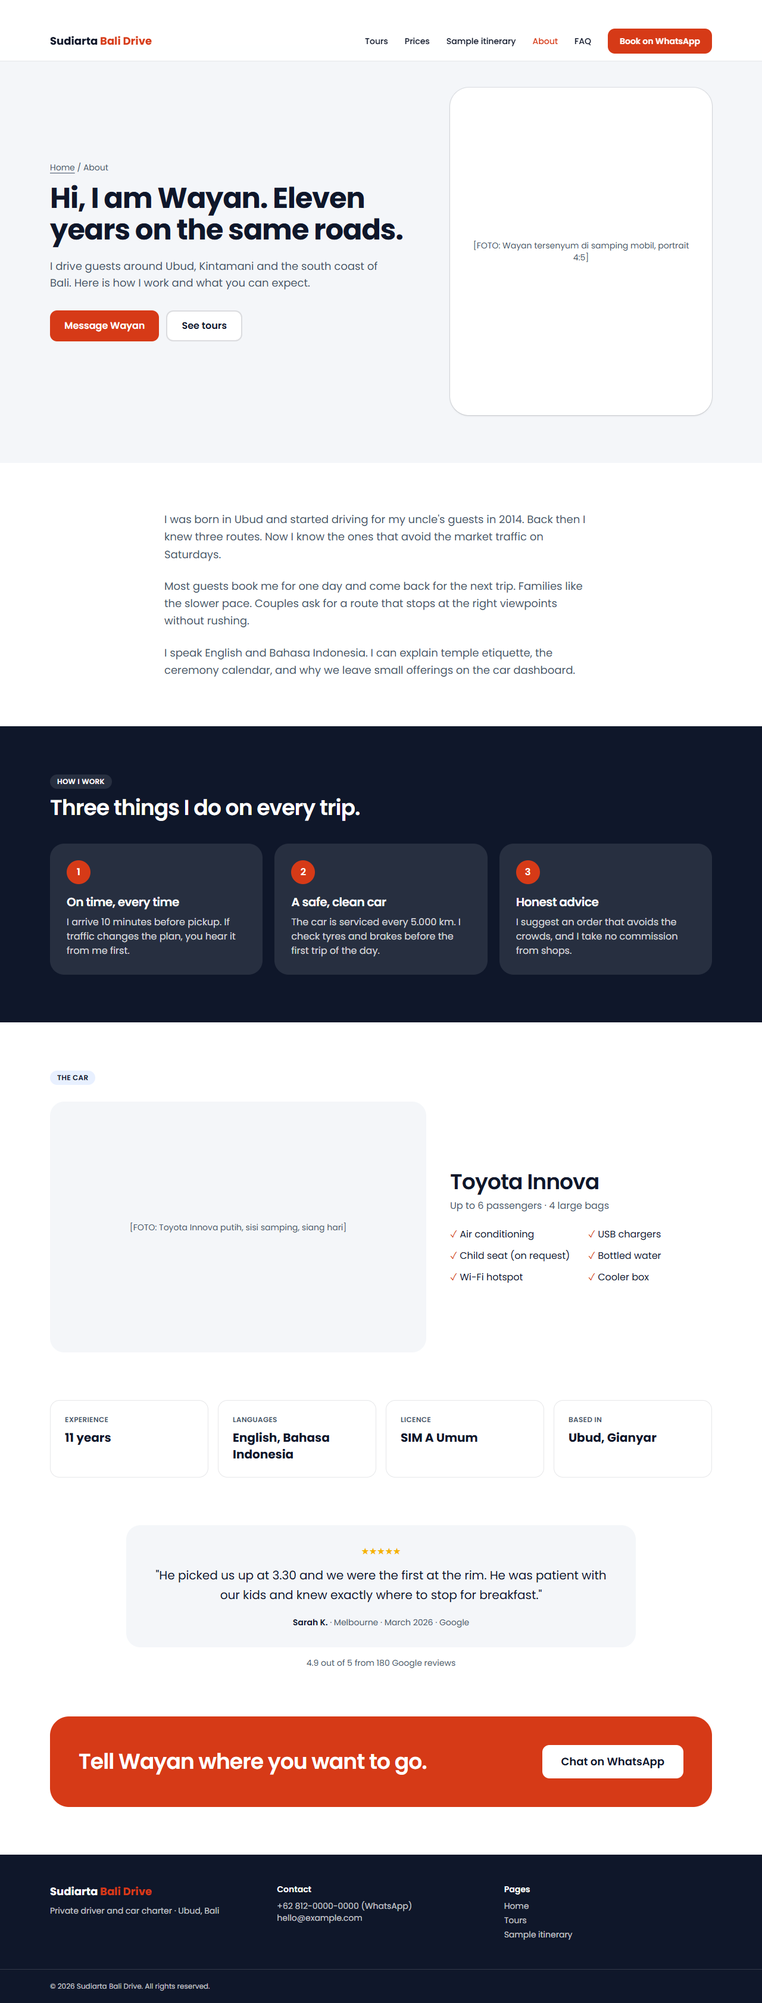
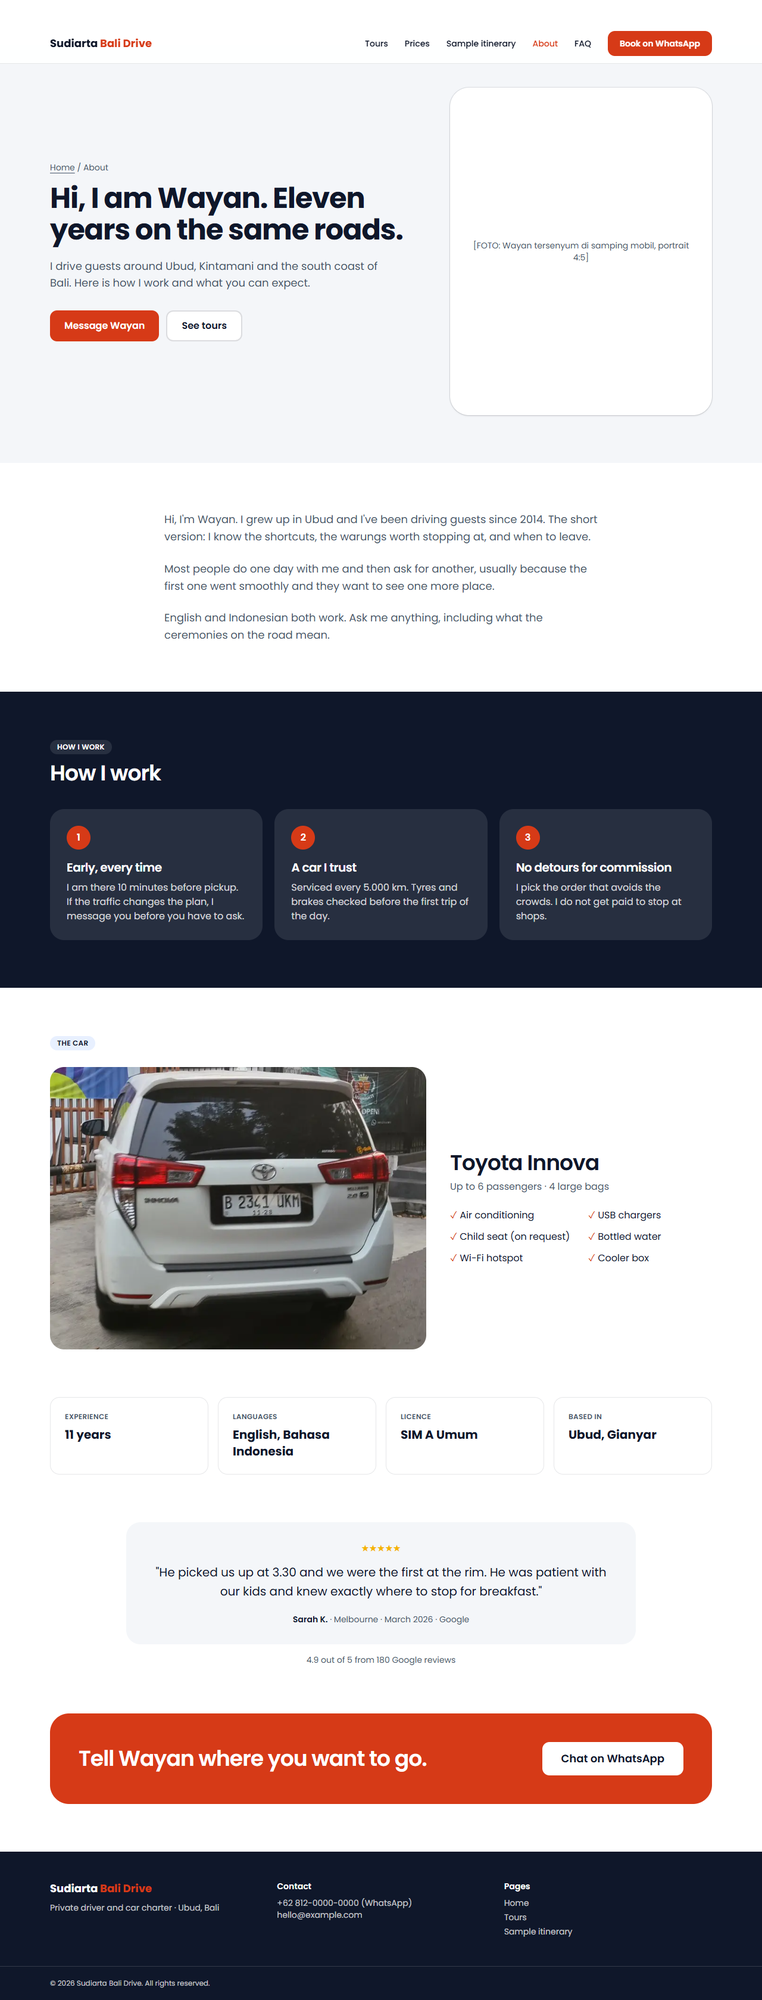
Distinct About copy per template and real car photo
- Each template now has its own About text (story and values), so the
  four About pages no longer repeat the same paragraphs
- Copy lives in shared/about-copy.json; Segara and Endek pages are
  generated from it, Sawah and Batu About pages were updated in place
- Car placeholder replaced by a CC0 photo of a white Toyota Innova
  (Wikimedia Commons), shared/photos/car-innova*.webp
- Driver portrait is still a placeholder: no approved photo yet
- scripts/find-car-photo.mjs to search for licensed car photos

diff --git a/templates/segara/about.html b/templates/segara/about.html
@@ -105,13 +105,13 @@
 <section data-component="page-hero" class="bg-haze"><div class="mx-auto max-w-5xl px-5 py-16 md:py-24 text-center"><p class="text-sm text-slate"><a href="index.html" class="underline underline-offset-4">Home</a> / About</p><h1 class="mt-4 font-display text-4xl font-semibold sm:text-5xl">Hi, I am Wayan. Eleven years on the same roads.</h1><p class="mt-5 max-w-2xl text-lg text-slate mx-auto">I drive guests around Ubud, Kintamani and the south coast of Bali. Here is how I work and what you can expect.</p><div class="mt-8 flex flex-col gap-3 sm:flex-row justify-center"><a href="https://wa.me/6281200000000?text=Hello%20Wayan" class="btn-primary">Message Wayan</a><a href="activities.html" class="btn-outline">See tours</a></div></div></section>
 <!-- /component:page-hero -->
 <!-- component:driver-story -->
-<section data-component="driver-story" class="mx-auto grid max-w-6xl gap-12 px-5 py-20 md:grid-cols-12 md:items-center"><div class="md:col-span-5"><div class="photo-slot aspect-[4/5] rounded-3xl p-6" data-field="driver.photo_about">[FOTO: Wayan tersenyum di samping mobil, portrait 4:5]</div></div><div class="space-y-6 text-lg leading-relaxed md:col-span-7"><p data-field="driver.story.0">I was born in Ubud and started driving for my uncle's guests in 2014. Back then I knew three routes. Now I know the ones that avoid the market traffic on Saturdays.</p><p data-field="driver.story.1">Most guests book me for one day and come back for the next trip. Families like the slower pace. Couples ask for a route that stops at the right viewpoints without rushing.</p><p data-field="driver.story.2">I speak English and Bahasa Indonesia. I can explain temple etiquette, the ceremony calendar, and why we leave small offerings on the car dashboard.</p></div></section>
+<section data-component="driver-story" class="mx-auto grid max-w-6xl gap-12 px-5 py-20 md:grid-cols-12 md:items-center"><div class="md:col-span-5"><div class="photo-slot aspect-[4/5] rounded-3xl p-6" data-field="driver.photo_about">[FOTO: Wayan tersenyum di samping mobil, portrait 4:5]</div></div><div class="space-y-6 text-lg leading-relaxed md:col-span-7"><p data-field="driver.story.0">I was raised in Ubud and have been driving visitors around this island since 2014. Every trip starts with a conversation: what you love, how tired you are, how much time you have.</p><p data-field="driver.story.1">Families tell me the best part is the slow pace. Couples tell me it is the quiet viewpoints. I just try to make the day feel like yours.</p><p data-field="driver.story.2">I speak English and Bahasa Indonesia. Along the way I will explain what the offerings on the dashboard are for, and why we take our time at temples.</p></div></section>
 <!-- /component:driver-story -->
 <!-- component:values -->
-<section data-component="values" class="bg-teal-deep text-snow"><div class="mx-auto max-w-6xl px-5 py-20"><p class="eyebrow !text-sun">How I work</p><h2 class="max-w-2xl font-display text-3xl font-semibold sm:text-4xl">Three things I do on every trip.</h2><ol class="mt-10 grid gap-5 md:grid-cols-3" data-repeat="values"><li class="rounded-3xl bg-snow/10 p-7"><span class="font-display text-5xl font-semibold text-sun">1</span><h3 class="mt-3 font-display text-2xl font-semibold">On time, every time</h3><p class="mt-2 opacity-85">I arrive 10 minutes before pickup. If traffic changes the plan, you hear it from me first.</p></li><li class="rounded-3xl bg-snow/10 p-7"><span class="font-display text-5xl font-semibold text-sun">2</span><h3 class="mt-3 font-display text-2xl font-semibold">A safe, clean car</h3><p class="mt-2 opacity-85">The car is serviced every 5.000 km. I check tyres and brakes before the first trip of the day.</p></li><li class="rounded-3xl bg-snow/10 p-7"><span class="font-display text-5xl font-semibold text-sun">3</span><h3 class="mt-3 font-display text-2xl font-semibold">Honest advice</h3><p class="mt-2 opacity-85">I suggest an order that avoids the crowds, and I take no commission from shops.</p></li></ol></div></section>
+<section data-component="values" class="bg-teal-deep text-snow"><div class="mx-auto max-w-6xl px-5 py-20"><p class="eyebrow !text-sun">How I work</p><h2 class="max-w-2xl font-display text-3xl font-semibold sm:text-4xl">What you can count on from me.</h2><ol class="mt-10 grid gap-5 md:grid-cols-3" data-repeat="values"><li class="rounded-3xl bg-snow/10 p-7"><span class="font-display text-5xl font-semibold text-sun">1</span><h3 class="mt-3 font-display text-2xl font-semibold">I am early</h3><p class="mt-2 opacity-85">Ten minutes before pickup, every time. If the road changes the plan, you hear it from me first.</p></li><li class="rounded-3xl bg-snow/10 p-7"><span class="font-display text-5xl font-semibold text-sun">2</span><h3 class="mt-3 font-display text-2xl font-semibold">The car is clean and safe</h3><p class="mt-2 opacity-85">Serviced every 5.000 km, with tyres and brakes checked before the first trip of the day.</p></li><li class="rounded-3xl bg-snow/10 p-7"><span class="font-display text-5xl font-semibold text-sun">3</span><h3 class="mt-3 font-display text-2xl font-semibold">I tell you the truth</h3><p class="mt-2 opacity-85">I suggest the order that avoids the crowds, and I take no commission from shops or restaurants.</p></li></ol></div></section>
 <!-- /component:values -->
 <!-- component:fleet -->
-<section data-component="fleet" class="mx-auto max-w-6xl px-5 py-20"><p class="eyebrow">The car</p><div class="mt-4 grid gap-10 md:grid-cols-12 md:items-center"><div class="md:col-span-7"><div class="photo-slot aspect-[3/2] rounded-3xl p-6" data-field="fleet.0.photo">[FOTO: Toyota Innova putih, sisi samping, siang hari]</div></div><div class="md:col-span-5"><h2 class="font-display text-3xl font-semibold sm:text-4xl" data-field="fleet.0.name">Toyota Innova</h2><p class="mt-2 text-slate">Up to 6 passengers · 4 large bags</p><ul class="mt-6 grid grid-cols-2 gap-x-6 gap-y-3" data-repeat="features"><li><span class="text-teal" aria-hidden="true">✓</span> Air conditioning</li><li><span class="text-teal" aria-hidden="true">✓</span> USB chargers</li><li><span class="text-teal" aria-hidden="true">✓</span> Child seat (on request)</li><li><span class="text-teal" aria-hidden="true">✓</span> Bottled water</li><li><span class="text-teal" aria-hidden="true">✓</span> Wi-Fi hotspot</li><li><span class="text-teal" aria-hidden="true">✓</span> Cooler box</li></ul></div></div></section>
+<section data-component="fleet" class="mx-auto max-w-6xl px-5 py-20"><p class="eyebrow">The car</p><div class="mt-4 grid gap-10 md:grid-cols-12 md:items-center"><div class="md:col-span-7"><img src="../../shared/photos/car-innova-800.webp" width="800" height="600" loading="lazy" alt="White Toyota Innova parked on a street in Jakarta" class="aspect-[4/3] w-full rounded-3xl object-cover" data-field="fleet.0.photo"></div><div class="md:col-span-5"><h2 class="font-display text-3xl font-semibold sm:text-4xl" data-field="fleet.0.name">Toyota Innova</h2><p class="mt-2 text-slate">Up to 6 passengers · 4 large bags</p><ul class="mt-6 grid grid-cols-2 gap-x-6 gap-y-3" data-repeat="features"><li><span class="text-teal" aria-hidden="true">✓</span> Air conditioning</li><li><span class="text-teal" aria-hidden="true">✓</span> USB chargers</li><li><span class="text-teal" aria-hidden="true">✓</span> Child seat (on request)</li><li><span class="text-teal" aria-hidden="true">✓</span> Bottled water</li><li><span class="text-teal" aria-hidden="true">✓</span> Wi-Fi hotspot</li><li><span class="text-teal" aria-hidden="true">✓</span> Cooler box</li></ul></div></div></section>
 <!-- /component:fleet -->
 <!-- component:credentials -->
 <section data-component="credentials" class="mx-auto max-w-6xl px-5 pb-20"><dl class="grid gap-4 md:grid-cols-4"><div class="rounded-3xl bg-snow p-7 shadow-sm ring-1 ring-ink/5 !p-6"><dt class="text-xs font-bold tracking-wide text-teal uppercase">Experience</dt><dd class="mt-2 font-display text-lg font-semibold">11 years</dd></div><div class="rounded-3xl bg-snow p-7 shadow-sm ring-1 ring-ink/5 !p-6"><dt class="text-xs font-bold tracking-wide text-teal uppercase">Languages</dt><dd class="mt-2 font-display text-lg font-semibold">English, Bahasa Indonesia</dd></div><div class="rounded-3xl bg-snow p-7 shadow-sm ring-1 ring-ink/5 !p-6"><dt class="text-xs font-bold tracking-wide text-teal uppercase">Licence</dt><dd class="mt-2 font-display text-lg font-semibold">SIM A Umum</dd></div><div class="rounded-3xl bg-snow p-7 shadow-sm ring-1 ring-ink/5 !p-6"><dt class="text-xs font-bold tracking-wide text-teal uppercase">Based in</dt><dd class="mt-2 font-display text-lg font-semibold">Ubud, Gianyar</dd></div></dl></section>

diff --git a/templates/endek/about.html b/templates/endek/about.html
@@ -105,13 +105,13 @@
 <section data-component="page-hero" class="bg-onyx text-snow"><div class="mx-auto max-w-5xl px-5 py-16 md:py-24 "><p class="text-sm text-snow/70"><a href="index.html" class="underline underline-offset-4">Home</a> / About</p><h1 class="mt-4 font-display text-5xl leading-[0.95] sm:text-7xl">Hi, I am Wayan. Eleven years on the same roads.</h1><p class="mt-5 max-w-2xl text-lg text-snow/80 ">I drive guests around Ubud, Kintamani and the south coast of Bali. Here is how I work and what you can expect.</p><div class="mt-8 flex flex-col gap-3 sm:flex-row "><a href="https://wa.me/6281200000000?text=Hello%20Wayan" class="btn-primary">Message Wayan</a><a href="activities.html" class="inline-flex min-h-[48px] items-center justify-center rounded-full border border-snow/60 px-7 py-3 font-semibold text-snow transition hover:border-snow">See tours</a></div></div></section>
 <!-- /component:page-hero -->
 <!-- component:driver-story -->
-<section data-component="driver-story" class="mx-auto grid max-w-6xl gap-12 px-5 py-20 md:grid-cols-12 md:items-center"><div class="md:col-span-5"><div class="photo-slot aspect-[4/5] rounded-3xl p-6" data-field="driver.photo_about">[FOTO: Wayan tersenyum di samping mobil, portrait 4:5]</div></div><div class="space-y-6 text-lg leading-relaxed md:col-span-7"><p data-field="driver.story.0">I was born in Ubud and started driving for my uncle's guests in 2014. Back then I knew three routes. Now I know the ones that avoid the market traffic on Saturdays.</p><p data-field="driver.story.1">Most guests book me for one day and come back for the next trip. Families like the slower pace. Couples ask for a route that stops at the right viewpoints without rushing.</p><p data-field="driver.story.2">I speak English and Bahasa Indonesia. I can explain temple etiquette, the ceremony calendar, and why we leave small offerings on the car dashboard.</p></div></section>
+<section data-component="driver-story" class="mx-auto grid max-w-6xl gap-12 px-5 py-20 md:grid-cols-12 md:items-center"><div class="md:col-span-5"><div class="photo-slot aspect-[4/5] rounded-3xl p-6" data-field="driver.photo_about">[FOTO: Wayan tersenyum di samping mobil, portrait 4:5]</div></div><div class="space-y-6 text-lg leading-relaxed md:col-span-7"><p data-field="driver.story.0">Ubud is where I was born, and where I have chauffeured guests since 2014. The car is kept immaculate, the route is planned quietly, and the day unfolds without rush.</p><p data-field="driver.story.1">Honeymoon couples, families and business travellers ask for different things. What they share is the wish for a day that feels effortless.</p><p data-field="driver.story.2">English and Bahasa Indonesia, with discretion. I can explain temple customs and the ceremony calendar whenever you wish to hear them.</p></div></section>
 <!-- /component:driver-story -->
 <!-- component:values -->
-<section data-component="values" class="bg-onyx text-snow"><div class="mx-auto max-w-6xl px-5 py-20"><p class="eyebrow !text-snow/70">How I work</p><h2 class="max-w-2xl font-display text-4xl sm:text-5xl">Three things I do on every trip.</h2><ol class="mt-10 grid gap-5 md:grid-cols-3" data-repeat="values"><li class="rounded-3xl bg-snow/10 p-8"><span class="font-display text-5xl font-semibold text-snow">1</span><h3 class="mt-3 font-display text-3xl">On time, every time</h3><p class="mt-2 opacity-85">I arrive 10 minutes before pickup. If traffic changes the plan, you hear it from me first.</p></li><li class="rounded-3xl bg-snow/10 p-8"><span class="font-display text-5xl font-semibold text-snow">2</span><h3 class="mt-3 font-display text-3xl">A safe, clean car</h3><p class="mt-2 opacity-85">The car is serviced every 5.000 km. I check tyres and brakes before the first trip of the day.</p></li><li class="rounded-3xl bg-snow/10 p-8"><span class="font-display text-5xl font-semibold text-snow">3</span><h3 class="mt-3 font-display text-3xl">Honest advice</h3><p class="mt-2 opacity-85">I suggest an order that avoids the crowds, and I take no commission from shops.</p></li></ol></div></section>
+<section data-component="values" class="bg-onyx text-snow"><div class="mx-auto max-w-6xl px-5 py-20"><p class="eyebrow !text-snow/70">How I work</p><h2 class="max-w-2xl font-display text-4xl sm:text-5xl">Standards</h2><ol class="mt-10 grid gap-5 md:grid-cols-3" data-repeat="values"><li class="rounded-3xl bg-snow/10 p-8"><span class="font-display text-5xl font-semibold text-snow">1</span><h3 class="mt-3 font-display text-3xl">Punctual, discreet</h3><p class="mt-2 opacity-85">I arrive ten minutes early and wait without fuss. Schedule changes reach you directly, never through a third party.</p></li><li class="rounded-3xl bg-snow/10 p-8"><span class="font-display text-5xl font-semibold text-snow">2</span><h3 class="mt-3 font-display text-3xl">Immaculate vehicle</h3><p class="mt-2 opacity-85">Serviced every 5.000 km and inspected before the first departure of each day.</p></li><li class="rounded-3xl bg-snow/10 p-8"><span class="font-display text-5xl font-semibold text-snow">3</span><h3 class="mt-3 font-display text-3xl">Honest counsel</h3><p class="mt-2 opacity-85">The route is shaped around your pace. No commissions, no detours to shops.</p></li></ol></div></section>
 <!-- /component:values -->
 <!-- component:fleet -->
-<section data-component="fleet" class="mx-auto max-w-6xl px-5 py-20"><p class="eyebrow">The car</p><div class="mt-4 grid gap-10 md:grid-cols-12 md:items-center"><div class="md:col-span-7"><div class="photo-slot aspect-[3/2] rounded-3xl p-6" data-field="fleet.0.photo">[FOTO: Toyota Innova putih, sisi samping, siang hari]</div></div><div class="md:col-span-5"><h2 class="font-display text-4xl sm:text-5xl" data-field="fleet.0.name">Toyota Innova</h2><p class="mt-2 text-graphite">Up to 6 passengers · 4 large bags</p><ul class="mt-6 grid grid-cols-2 gap-x-6 gap-y-3" data-repeat="features"><li><span class="text-wine" aria-hidden="true">✓</span> Air conditioning</li><li><span class="text-wine" aria-hidden="true">✓</span> USB chargers</li><li><span class="text-wine" aria-hidden="true">✓</span> Child seat (on request)</li><li><span class="text-wine" aria-hidden="true">✓</span> Bottled water</li><li><span class="text-wine" aria-hidden="true">✓</span> Wi-Fi hotspot</li><li><span class="text-wine" aria-hidden="true">✓</span> Cooler box</li></ul></div></div></section>
+<section data-component="fleet" class="mx-auto max-w-6xl px-5 py-20"><p class="eyebrow">The car</p><div class="mt-4 grid gap-10 md:grid-cols-12 md:items-center"><div class="md:col-span-7"><img src="../../shared/photos/car-innova-800.webp" width="800" height="600" loading="lazy" alt="White Toyota Innova parked on a street in Jakarta" class="aspect-[4/3] w-full rounded-3xl object-cover" data-field="fleet.0.photo"></div><div class="md:col-span-5"><h2 class="font-display text-4xl sm:text-5xl" data-field="fleet.0.name">Toyota Innova</h2><p class="mt-2 text-graphite">Up to 6 passengers · 4 large bags</p><ul class="mt-6 grid grid-cols-2 gap-x-6 gap-y-3" data-repeat="features"><li><span class="text-wine" aria-hidden="true">✓</span> Air conditioning</li><li><span class="text-wine" aria-hidden="true">✓</span> USB chargers</li><li><span class="text-wine" aria-hidden="true">✓</span> Child seat (on request)</li><li><span class="text-wine" aria-hidden="true">✓</span> Bottled water</li><li><span class="text-wine" aria-hidden="true">✓</span> Wi-Fi hotspot</li><li><span class="text-wine" aria-hidden="true">✓</span> Cooler box</li></ul></div></div></section>
 <!-- /component:fleet -->
 <!-- component:credentials -->
 <section data-component="credentials" class="mx-auto max-w-6xl px-5 pb-20"><dl class="grid gap-4 md:grid-cols-4"><div class="rounded-3xl bg-snow p-8 shadow-sm ring-1 ring-ink/5 !p-6"><dt class="text-xs font-semibold tracking-[0.18em] text-wine uppercase">Experience</dt><dd class="mt-2 font-display text-2xl">11 years</dd></div><div class="rounded-3xl bg-snow p-8 shadow-sm ring-1 ring-ink/5 !p-6"><dt class="text-xs font-semibold tracking-[0.18em] text-wine uppercase">Languages</dt><dd class="mt-2 font-display text-2xl">English, Bahasa Indonesia</dd></div><div class="rounded-3xl bg-snow p-8 shadow-sm ring-1 ring-ink/5 !p-6"><dt class="text-xs font-semibold tracking-[0.18em] text-wine uppercase">Licence</dt><dd class="mt-2 font-display text-2xl">SIM A Umum</dd></div><div class="rounded-3xl bg-snow p-8 shadow-sm ring-1 ring-ink/5 !p-6"><dt class="text-xs font-semibold tracking-[0.18em] text-wine uppercase">Based in</dt><dd class="mt-2 font-display text-2xl">Ubud, Gianyar</dd></div></dl></section>

diff --git a/templates/batu/about.html b/templates/batu/about.html
@@ -88,9 +88,9 @@
 
 <!-- component:driver-story -->
 <section data-component="driver-story" class="mx-auto max-w-3xl space-y-6 px-5 py-20 text-lg leading-relaxed text-slate">
-  <p data-field="driver.story.0">I was born in Ubud and started driving for my uncle's guests in 2014. Back then I knew three routes. Now I know the ones that avoid the market traffic on Saturdays.</p>
-  <p data-field="driver.story.1">Most guests book me for one day and come back for the next trip. Families like the slower pace. Couples ask for a route that stops at the right viewpoints without rushing.</p>
-  <p data-field="driver.story.2">I speak English and Bahasa Indonesia. I can explain temple etiquette, the ceremony calendar, and why we leave small offerings on the car dashboard.</p>
+  <p data-field="driver.story.0">Hi, I'm Wayan. I grew up in Ubud and I've been driving guests since 2014. The short version: I know the shortcuts, the warungs worth stopping at, and when to leave.</p>
+  <p data-field="driver.story.1">Most people do one day with me and then ask for another, usually because the first one went smoothly and they want to see one more place.</p>
+  <p data-field="driver.story.2">English and Indonesian both work. Ask me anything, including what the ceremonies on the road mean.</p>
 </section>
 <!-- /component:driver-story -->
 
@@ -98,11 +98,11 @@
 <section data-component="values" class="bg-ink text-snow">
   <div class="mx-auto max-w-6xl px-5 py-20">
     <p class="eyebrow !bg-snow/10 !text-snow">How I work</p>
-    <h2 class="max-w-2xl text-3xl sm:text-4xl">Three things I do on every trip.</h2>
+    <h2 class="max-w-2xl text-3xl sm:text-4xl">How I work</h2>
     <ol class="mt-10 grid gap-5 md:grid-cols-3" data-repeat="values">
-      <li class="rounded-3xl bg-snow/10 p-7"><span class="flex h-10 w-10 items-center justify-center rounded-full bg-coral font-semibold">1</span><h3 class="mt-4 text-xl">On time, every time</h3><p class="mt-2 text-snow/80">I arrive 10 minutes before pickup. If traffic changes the plan, you hear it from me first.</p></li>
-      <li class="rounded-3xl bg-snow/10 p-7"><span class="flex h-10 w-10 items-center justify-center rounded-full bg-coral font-semibold">2</span><h3 class="mt-4 text-xl">A safe, clean car</h3><p class="mt-2 text-snow/80">The car is serviced every 5.000 km. I check tyres and brakes before the first trip of the day.</p></li>
-      <li class="rounded-3xl bg-snow/10 p-7"><span class="flex h-10 w-10 items-center justify-center rounded-full bg-coral font-semibold">3</span><h3 class="mt-4 text-xl">Honest advice</h3><p class="mt-2 text-snow/80">I suggest an order that avoids the crowds, and I take no commission from shops.</p></li>
+      <li class="rounded-3xl bg-snow/10 p-7"><span class="flex h-10 w-10 items-center justify-center rounded-full bg-coral font-semibold">1</span><h3 class="mt-4 text-xl">Early, every time</h3><p class="mt-2 text-snow/80">I am there 10 minutes before pickup. If the traffic changes the plan, I message you before you have to ask.</p></li>
+      <li class="rounded-3xl bg-snow/10 p-7"><span class="flex h-10 w-10 items-center justify-center rounded-full bg-coral font-semibold">2</span><h3 class="mt-4 text-xl">A car I trust</h3><p class="mt-2 text-snow/80">Serviced every 5.000 km. Tyres and brakes checked before the first trip of the day.</p></li>
+      <li class="rounded-3xl bg-snow/10 p-7"><span class="flex h-10 w-10 items-center justify-center rounded-full bg-coral font-semibold">3</span><h3 class="mt-4 text-xl">No detours for commission</h3><p class="mt-2 text-snow/80">I pick the order that avoids the crowds. I do not get paid to stop at shops.</p></li>
     </ol>
   </div>
 </section>
@@ -112,7 +112,7 @@
 <section data-component="fleet" class="mx-auto max-w-6xl px-5 py-20">
   <p class="eyebrow">The car</p>
   <div class="mt-4 grid gap-10 md:grid-cols-12 md:items-center">
-    <div class="md:col-span-7"><div class="photo-slot aspect-[3/2] rounded-3xl p-6" data-field="fleet.0.photo">[FOTO: Toyota Innova putih, sisi samping, siang hari]</div></div>
+    <div class="md:col-span-7"><img src="../../shared/photos/car-innova-800.webp" width="800" height="600" loading="lazy" alt="White Toyota Innova parked on a street in Jakarta" class="aspect-[4/3] w-full rounded-3xl object-cover" data-field="fleet.0.photo"></div>
     <div class="md:col-span-5">
       <h2 class="text-3xl sm:text-4xl" data-field="fleet.0.name">Toyota Innova</h2>
       <p class="mt-2 text-slate">Up to 6 passengers · 4 large bags</p>

diff --git a/templates/sawah/about.html b/templates/sawah/about.html
@@ -86,9 +86,9 @@
 
 <!-- component:driver-story -->
 <section data-component="driver-story" class="mx-auto max-w-3xl space-y-6 px-5 py-20 text-lg leading-relaxed text-ink/85">
-  <p data-field="driver.story.0">I was born in Ubud and started driving for my uncle's guests in 2014. Back then I knew three routes. Now I know the ones that avoid the market traffic on Saturdays.</p>
-  <p data-field="driver.story.1">Most guests book me for one day and come back for the next trip. Families like the slower pace. Couples ask for a route that stops at the right viewpoints without rushing.</p>
-  <p data-field="driver.story.2">I speak English and Bahasa Indonesia. I can explain temple etiquette, the ceremony calendar, and why we leave small offerings on the car dashboard.</p>
+  <p data-field="driver.story.0">Born in Ubud, I started driving for my uncle's guests in 2014. Back then I knew three roads. Now I know which ones avoid the Saturday market traffic.</p>
+  <p data-field="driver.story.1">Most guests book one day and then a second. Families ask for a slower pace; couples ask for the viewpoints nobody else stops at.</p>
+  <p data-field="driver.story.2">I speak English and Bahasa Indonesia, and I can explain temple etiquette and the ceremony calendar on the way.</p>
 </section>
 <!-- /component:driver-story -->
 
@@ -110,7 +110,7 @@
 <section data-component="fleet" class="mx-auto max-w-6xl px-5 py-20">
   <p class="eyebrow">The car</p>
   <div class="mt-4 grid gap-10 md:grid-cols-12 md:items-center">
-    <div class="md:col-span-7"><div class="photo-slot aspect-[3/2] rounded-2xl p-6" data-field="fleet.0.photo">[FOTO: Toyota Innova putih, sisi samping, siang hari]</div></div>
+    <div class="md:col-span-7"><img src="../../shared/photos/car-innova-800.webp" width="800" height="600" loading="lazy" alt="White Toyota Innova parked on a street in Jakarta" class="aspect-[4/3] w-full rounded-3xl object-cover" data-field="fleet.0.photo"></div>
     <div class="md:col-span-5">
       <h2 class="text-4xl font-bold text-navy" data-field="fleet.0.name">Toyota Innova</h2>
       <p class="mt-2 text-muted">Up to 6 passengers · 4 large bags</p>
